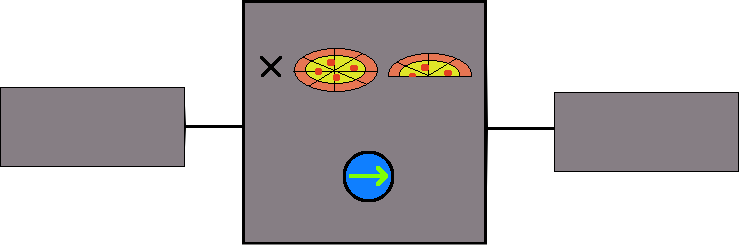
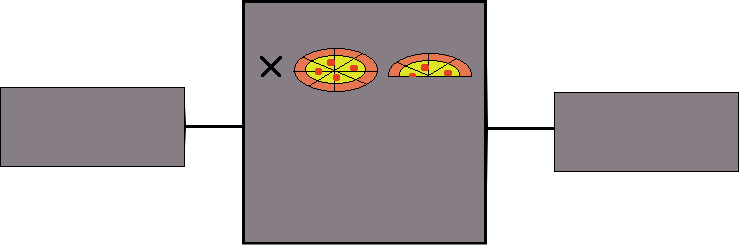
Breaking multiplier into machine + button

Changed region(s): [[0.4668, 0.6, 0.5602, 0.8286]]

diff --git a/PizzaMultiplier.ts b/PizzaMultiplier.ts
@@ -1,36 +1,28 @@
 ///<reference path="build/typescript/phaser.d.ts"/>
+///<reference path="PizzaSprite.ts"/>
 ///<reference path="Level.ts"/>
-///<reference path="Pizza.ts"/>
+///<reference path="MultiplierMachine.ts"/>
+///<reference path="MultiplierButton.ts"/>
 module Main {
 
-    export class PizzaMultiplier extends Phaser.Sprite {
+    export class PizzaMultiplier extends Phaser.Group {
 
-        private level: Level;
+        private machine: MultiplierMachine;
+        private button: MultiplierButton;
 
-        private multiplier: number;
+        private static BUTTON_OFFSET: number = 50;
 
-        private static WIDTH = 600;
+        constructor(multiplier: number, level: Level, x: number, y: number) {
+            super(level.game);
+            this.x = x;
+            this.y = y;
 
-        constructor(multiplier: number, level:Level, x:number, y:number) {
-            super(level.game, x, y, 'multiplier', 1);
-            this.level = level;
-            this.multiplier = multiplier;
+            this.machine = new MultiplierMachine(multiplier, level, 0, 0);
+            this.button = new MultiplierButton(this.machine, level,
+                this.machine.width/2 - PizzaMultiplier.BUTTON_OFFSET, this.machine.height/2);
 
-            this.level.game.physics.enable(this, Phaser.Physics.ARCADE);
-            this.body.setSize(200, 100, 0, 75);
-
-            this.inputEnabled = true;
-            this.events.onInputDown.add(this.multiplyPizza, this);
-        }
-
-        private multiplyPizza(): void {
-            for (var i: number = 0; i < this.level.pizzas.length; i++) {
-                var pizza: Pizza = this.level.pizzas.getAt(i);
-                if (this.level.physics.arcade.overlap(pizza, this)) {
-                    pizza.setAmount(pizza.amount * this.multiplier);
-                    pizza.x = this.x + PizzaMultiplier.WIDTH;
-                }
-            }
+            this.add(this.machine);
+            this.add(this.button);
         }
 
     }

diff --git a/MultiplierMachine.ts b/MultiplierMachine.ts
@@ -1,0 +1,35 @@
+///<reference path="build/typescript/phaser.d.ts"/>
+///<reference path="Level.ts"/>
+///<reference path="Pizza.ts"/>
+///<reference path="MultiplierButton.ts"/>
+module Main {
+
+    export class MultiplierMachine extends Phaser.Sprite {
+
+        private level: Level;
+
+        private multiplier: number;
+
+        private static WIDTH = 600;
+
+        constructor(multiplier: number, level:Level, x:number, y:number) {
+            super(level.game, x, y, 'multiplier');
+            this.level = level;
+            this.multiplier = multiplier;
+
+            this.level.game.physics.enable(this, Phaser.Physics.ARCADE);
+            this.body.setSize(200, 100, 0, 75);
+        }
+
+        public multiplyPizza(): void {
+            for (var i: number = 0; i < this.level.pizzas.length; i++) {
+                var pizza: Pizza = this.level.pizzas.getAt(i);
+                if (this.level.physics.arcade.overlap(pizza, this)) {
+                    pizza.setAmount(pizza.amount * this.multiplier);
+                    pizza.x = this.parent.x + MultiplierMachine.WIDTH;
+                }
+            }
+        }
+
+    }
+}

diff --git a/MultiplierButton.ts b/MultiplierButton.ts
@@ -1,0 +1,23 @@
+///<reference path="build/typescript/phaser.d.ts"/>
+///<reference path="Level.ts"/>
+///<reference path="Pizza.ts"/>
+module Main {
+
+    export class MultiplierButton extends Phaser.Sprite {
+
+        private parentMachine: MultiplierMachine;
+
+        constructor(multiplier: MultiplierMachine, level:Level, x:number, y:number) {
+            super(level.game, x, y, 'multiplierButton');
+            this.parentMachine = multiplier;
+
+            this.inputEnabled = true;
+            this.events.onInputDown.add(this.multiplyPizza, this);
+        }
+
+        private multiplyPizza(): void {
+            this.parentMachine.multiplyPizza();
+        }
+
+    }
+}

diff --git a/Preloader.ts b/Preloader.ts
@@ -8,6 +8,7 @@ module Main {
             this.load.image('pizzaMaker', 'assets/pizzaMaker.png');
             this.load.image('multiplier', 'assets/multiplier.png');
             this.load.image('level1', 'assets/level1.png');
+            this.load.image('multiplierButton', 'assets/multiplierButton.png');
         }
 
         create() {

diff --git a/PizzaMaker.ts b/PizzaMaker.ts
@@ -12,7 +12,6 @@ module Main {
             this.level = level;
 
             this.inputEnabled = true;
-
             this.events.onInputDown.add(this.makePizza, this);
         }
 
